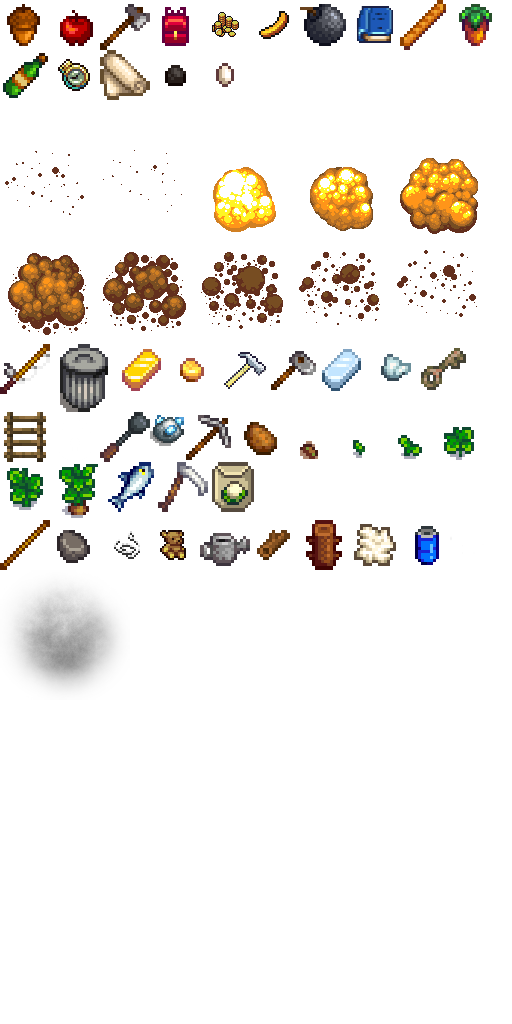
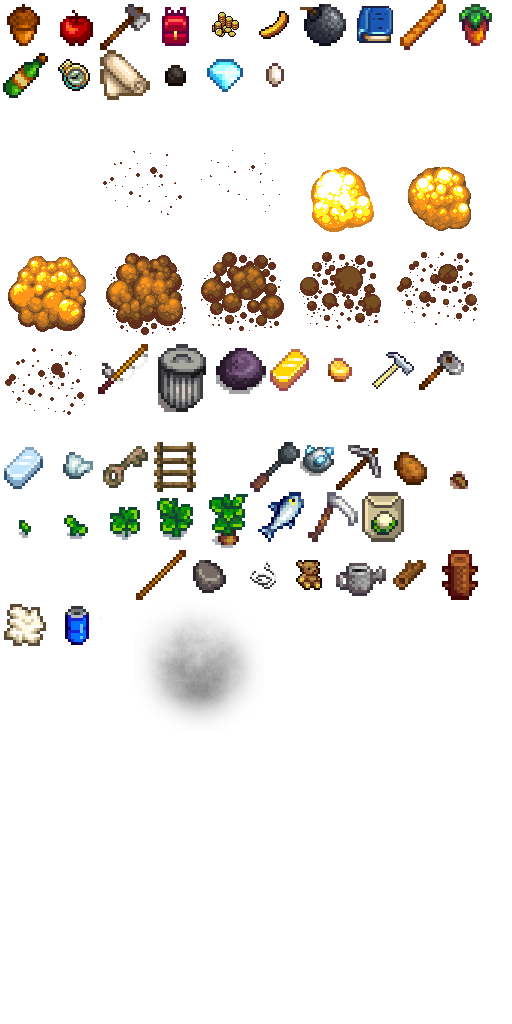
House repair mission can now be completed.

diff --git a/core/src/com/binarybrains/sprout/entity/house/Cottage.java b/core/src/com/binarybrains/sprout/entity/house/Cottage.java
@@ -12,6 +12,7 @@ import com.binarybrains.sprout.entity.Entity;
 import com.binarybrains.sprout.entity.Mob;
 import com.binarybrains.sprout.entity.Player;
 import com.binarybrains.sprout.item.Item;
+import com.binarybrains.sprout.item.resource.Resources;
 import com.binarybrains.sprout.level.Level;
 import com.binarybrains.sprout.misc.BackgroundMusic;
 
@@ -20,6 +21,7 @@ public class Cottage extends Entity { // extend House that extends StaticEntity
 
     private Sprite sprite;
     private Rectangle door;
+    private boolean isRepaired = false;
 
     public Cottage(Level level, Vector2 position, float width, float height) {
 
@@ -69,10 +71,18 @@ public class Cottage extends Entity { // extend House that extends StaticEntity
             getLevel().screen.pauseAmbience();
             return true;
         }
-        // todo more interactions
-        if (item.getName().equals("Wood")) {
-            getLevel().screen.hud.speakDialog("Repair house", "You need 500 wood to complete house repair. You currently have " + player.getInventory().count(item) + " wood. Chop chop!");
 
+        if (isRepaired) return false;
+
+        if (item.getName().equals("Wood") && !player.getInventory().hasResources(Resources.wood, 500)) {
+            getLevel().screen.hud.speakDialog("Repair house", "You need 500 wood to complete house repair. You currently have " + player.getInventory().count(item) + " wood. Chop chop!");
+        } else if (item.getName().equals("Wood") && player.getInventory().hasResources(Resources.wood, 500)) {
+            getLevel().screen.hud.addToasterMessage("House fixed", "Congratulations! Your house is repaired.");
+            SproutGame.playSound("fancy_reward", 0.34f);
+            player.getInventory().removeResource(Resources.wood, 500);
+            player.getLevel().screen.hud.refreshInventory();
+            // give player something
+            isRepaired = true;
         }
         return false;
     }
@@ -84,7 +94,10 @@ public class Cottage extends Entity { // extend House that extends StaticEntity
     }
 
     public void draw(Batch batch, float parentAlpha) {
-
+        // change sprite if isRepaired
+        if (isRepaired) {
+            sprite.setAlpha(.5f);
+        }
         sprite.draw(batch);
 
     }

diff --git a/core/src/com/binarybrains/sprout/level/tile/StoneTile.java b/core/src/com/binarybrains/sprout/level/tile/StoneTile.java
@@ -32,7 +32,7 @@ public class StoneTile extends Tile {
 
             if (toolItem.tool instanceof PickAxe && toolItem.tool.use(this)) {
 
-                SproutGame.playSound("metal_hit", 0.5f, MathUtils.random(0.78f, 1f), 1f);
+                SproutGame.playSound("metal_hit", 0.5f, MathUtils.random(0.68f, .78f), 1f);
                 health-=toolItem.getDamage();
 
                 if (health < 1) {
@@ -47,15 +47,19 @@ public class StoneTile extends Tile {
                         player.getLevel().add(player.getLevel(), new PickupItem(player.getLevel(), new ResourceItem(Resources.ironOre), new Vector2(xt * 16, yt * 16)));
                     }
 
-                    if (MathUtils.random(1,1) == 1) {
+                    if (MathUtils.random(1,4) == 1) {
                         player.getLevel().add(player.getLevel(), new PickupItem(player.getLevel(), new ResourceItem(Resources.goldNugget), new Vector2(xt * 16, yt * 16)));
-
 
                         if (player.getStats(Resources.goldNugget.name) < 2) {
                             player.getLevel().screen.hud.addToasterMessage("Gold", "You found your first gold nugget! Great job!");
 
                         }
                     }
+                    if (MathUtils.random(1,10) == 1) {
+                        player.getLevel().add(player.getLevel(), new PickupItem(player.getLevel(), new ResourceItem(Resources.diamond), new Vector2(xt * 16, yt * 16)));
+
+                    }
+
                     // reset
                     player.getLevel().setTile(xt, yt, new GrassTile(xt, yt, true));
 

diff --git a/core/src/com/binarybrains/sprout/entity/PickupItem.java b/core/src/com/binarybrains/sprout/entity/PickupItem.java
@@ -13,6 +13,8 @@ import com.binarybrains.sprout.entity.actions.Actions;
 import com.binarybrains.sprout.item.Item;
 import com.binarybrains.sprout.level.Level;
 
+import java.util.Arrays;
+import java.util.List;
 import java.util.Random;
 
 public class PickupItem extends ItemEntity {
@@ -33,9 +35,11 @@ public class PickupItem extends ItemEntity {
         setCenterPos(position.x, position.y);
         lifeTime = 60 * 10 + MathUtils.random(1, 60);
 
-        // should sparkle
+        List<String> valueables = Arrays.asList("Gold Nugget", "Diamond");
+
+
         // todo rareness level on item
-        if (item.getName().equals("Gold Nugget")) {
+        if (valueables.contains(item.getName())) {
             sparkle = new Sparkle(level, getCenterPos());
             sparkle.setLooping();
             level.add(level, sparkle);

diff --git a/core/src/com/binarybrains/sprout/entity/Player.java b/core/src/com/binarybrains/sprout/entity/Player.java
@@ -66,7 +66,7 @@ public class Player extends Npc implements InputProcessor {
         getInventory().add(new ResourceItem(Resources.bomb,392));
         getInventory().add(new ResourceItem(Resources.ironOre, 40));
         getInventory().add(new ResourceItem(Resources.seeds, 8));
-        getInventory().add(new ResourceItem(Resources.wood, 3));
+        getInventory().add(new ResourceItem(Resources.wood, 497));
         getInventory().add(new ResourceItem(Resources.string, 3));
         getInventory().add(new ResourceItem(Resources.potato, 8));
         getInventory().add(new ResourceItem(Resources.banana, 1));

diff --git a/core/src/com/binarybrains/sprout/item/resource/Resources.java b/core/src/com/binarybrains/sprout/item/resource/Resources.java
@@ -15,6 +15,8 @@ public class Resources {
     public static Resource goldNugget = new Resource("Gold Nugget", "Small lump of gold found ready-formed in the earth.");
     public static Resource goldIngot = new Resource("Gold Bar", "Solid block of gold in a oblong shape.");
 
+    public static Resource diamond = new Resource("Diamond", "A very valuable gem.");
+
     public static Resource acorn = new Resource("Acorn", "Fruit of the oak, a smooth oval nut in a rough cuplike base.");
 
     public static Resource wool = new Resource("Wool", "Wool is the textile fiber obtained from sheep.");

diff --git a/core/src/com/binarybrains/sprout/entity/tree/Tree.java b/core/src/com/binarybrains/sprout/entity/tree/Tree.java
@@ -168,7 +168,7 @@ public class Tree extends Entity { // extends Tree  or TerrainItem or Vegetation
         // return super.use(player, attackDir);
         shake();
         SproutGame.playSound("leaves_rustling", MathUtils.random(0.5f, 0.8f), MathUtils.random(0.9f, 1.1f), 1f);
-        int count = MathUtils.random(1,2);
+        int count = MathUtils.random(0,1);
         for (int i = 0; i < count; i++) {
             getLevel().add(getLevel(), new PickupItem(getLevel(), new ResourceItem(Resources.apple), new Vector2(getCenterPos().x, getCenterPos().y)));
         }
